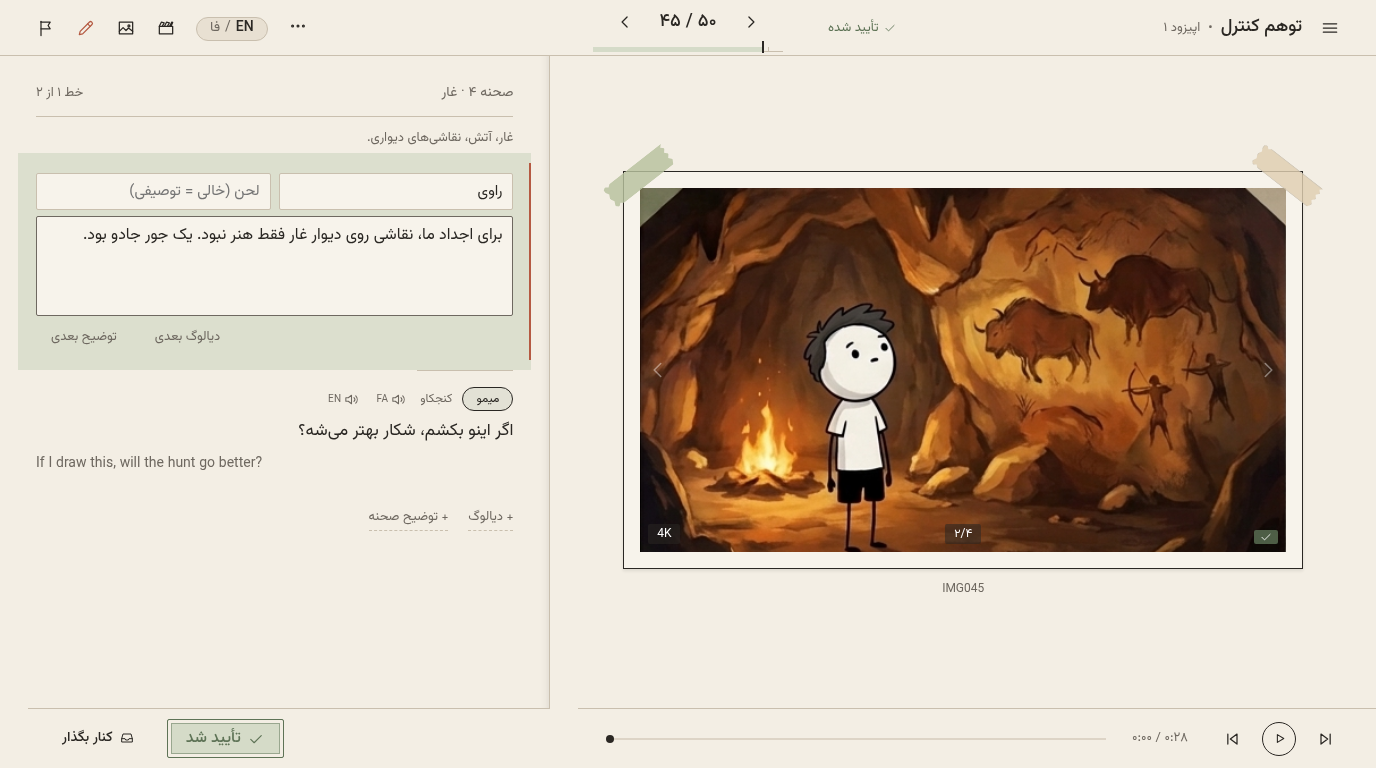
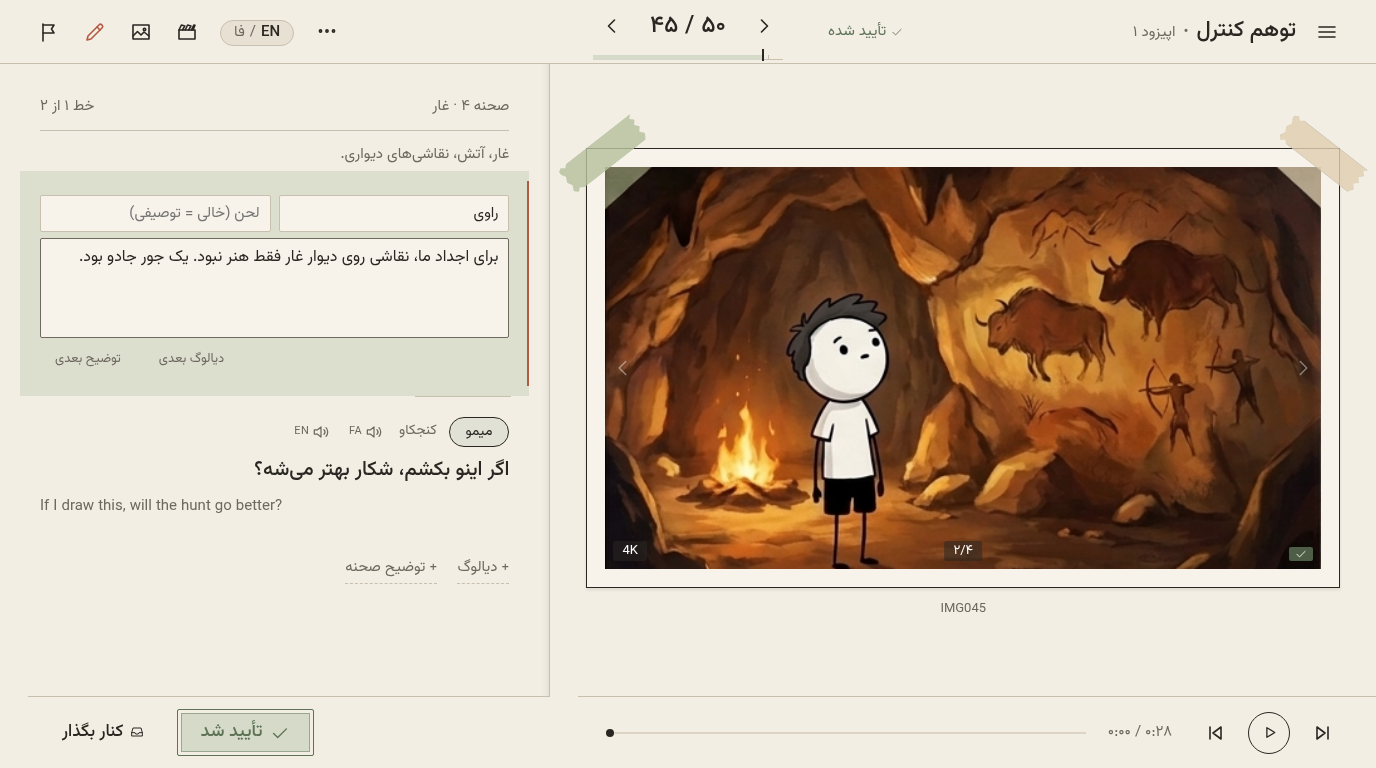
نسخهٔ ۲٫۰ (مقیاس): بزرگکردن نوار بالا، آیکونها، متن گفتگو، چیپها، قاب تصویر (حدود ۹۰٪ صفحه) و دکمههای پایین؛ فونت و وزن یکدست در پنجرهی پرامپت؛ اسکرینشاتها و COMPARE.md بهروز

diff --git a/tools/ui/css/spread.css b/tools/ui/css/spread.css
@@ -661,3 +661,120 @@ figure.shot.off .frame img {
   direction:ltr;
   font-size:13px;
 }
+
+/* scale round (v2.0.1) */
+.imgs {
+  padding:22px 36px 14px;
+}
+
+figure.shot {
+  width:min(100%,calc((100vh - 250px) * 16 / 9 + 34px));
+}
+
+.mount {
+  padding:18px;
+}
+
+.tape {
+  width:92px;
+  height:30px;
+}
+
+.tape.a {
+  left:-30px;
+  top:-10px;
+}
+
+.tape.b {
+  right:-30px;
+  top:-10px;
+}
+
+.txt {
+  padding:0 40px 28px;
+}
+
+.pghead {
+  padding-top:30px;
+  font-size:15px;
+}
+
+.slabel,
+.cnt {
+  font-size:15px;
+}
+
+.env {
+  font-size:15px;
+}
+
+.it {
+  padding:20px 20px 18px;
+  margin:0 -20px;
+}
+
+.who {
+  font-size:14px;
+  min-height:32px;
+  gap:4px 12px;
+}
+
+.who .nm {
+  font-size:14px;
+  line-height:28px;
+  padding:0 16px;
+}
+
+.who .tn {
+  font-size:14px;
+}
+
+.ab .ic {
+  width:20px;
+  height:20px;
+}
+
+.ab small {
+  font-size:11px;
+}
+
+.fa {
+  font-size:20px;
+  font-weight:500;
+  line-height:1.8;
+}
+
+.en {
+  font-size:15px;
+  line-height:1.6;
+}
+
+.act {
+  font-size:17px;
+}
+
+.lt-b {
+  width:30px;
+  height:30px;
+}
+
+.lt-b .ic {
+  width:17px;
+  height:17px;
+}
+
+.addbar button {
+  font-size:15px;
+}
+
+.idrow {
+  font-size:13px;
+}
+
+.vmeta > span {
+  font-size:13px;
+}
+
+.nbox textarea {
+  font-size:15px;
+}

diff --git a/tools/ui/css/shell.css b/tools/ui/css/shell.css
@@ -557,3 +557,93 @@
   font-size:13px;
   line-height:1.9;
 }
+
+/* scale round (v2.0.1): everything about 1.3x of the first pass, like the mock-up */
+:root {
+  --bar-h:64px;
+}
+
+.ib {
+  width:42px;
+  height:42px;
+}
+
+.ib .ic {
+  width:24px;
+  height:24px;
+  stroke-width:1.6;
+}
+
+#title {
+  font-size:22px;
+  font-weight:500;
+}
+
+#ep {
+  font-size:15px;
+}
+
+#nav {
+  margin-top:8px;
+  height:36px;
+}
+
+#nav .ib {
+  width:36px;
+  height:36px;
+}
+
+#pos {
+  font-size:24px;
+  min-width:104px;
+}
+
+#apr {
+  font-size:15px;
+}
+
+.pill {
+  font-size:15px;
+  line-height:30px;
+}
+
+#foot {
+  height:72px;
+}
+
+#ttime {
+  font-size:15px;
+}
+
+.playb {
+  width:42px;
+  height:42px;
+}
+
+.playb .ic {
+  width:21px;
+  height:21px;
+}
+
+.stamp {
+  font-size:18px;
+  padding:7px 22px;
+}
+
+.stamp .ic {
+  width:22px;
+  height:22px;
+}
+
+#aside {
+  font-size:17px;
+}
+
+.drow {
+  font-size:17px;
+  height:52px;
+}
+
+#dtitle {
+  font-size:20px;
+}

diff --git a/tools/ui/css/modal.css b/tools/ui/css/modal.css
@@ -262,3 +262,22 @@ dialog.dlg .okm {
   display:inline;
   color:var(--approve);
 }
+
+/* scale round (v2.0.1): one consistent weight in the prompt box (the Latin words fell back to another face) */
+.ptxt {
+  font:400 15px/1.75 system-ui,'Segoe UI',Roboto,'Helvetica Neue',Arial,sans-serif;
+  font-synthesis:none;
+}
+
+.pmc h3 {
+  font-size:24px;
+}
+
+.pmc .sub {
+  font-size:15px;
+}
+
+.pmeta,
+.prefs {
+  font-size:14px;
+}

diff --git a/docs/redesign/screens/COMPARE.md b/docs/redesign/screens/COMPARE.md
@@ -25,6 +25,8 @@
 - ترتیب آیکونهای بالا چپ برعکس ماکاپ بود. ماکاپ از چپ: پرچم، قلم، تصویر، کلپر، `فا / EN`، `⋯`. همین شد (و منوی `⋯` زیر دکمهی خودش باز میشه).
 - پنجرهی ویرایش صحنه و پنجرهی صدا هنوز کنترلهای آبی پیشفرض مرورگر داشتن. رنگ تأیید (زیتونی) گرفتن، و ترتیب دکمهها مثل پنجرهی پرامپت شد.
 
+**دور ۴ (مقیاس، بعد از نظر مدیر پروژه):** همهچیز حدود ۱٫۳ برابر شد: آیکونهای نوار ۲۴ پیکسل با قلم ۱٫۶، تیتر ۲۲، ارقام ناوبر ۲۴، متن فارسی ۲۰ پیکسل با وزن ۵۰۰، انگلیسی ۱۵، چیپ و لحن ۱۴، تیتر صحنه و شمارنده ۱۵، قاب تصویر حدود ۹۰٪ عرض صفحهی راست با نوار چسبهای بزرگتر روی گوشهها، مُهر و پخش بزرگتر. توی `textarea` پنجرهی پرامپت حروف لاتین بهخاطر فونت جایگزین وزنهای قاطی داشتن؛ حالا یک فونت سیستمی با وزن ثابت ۴۰۰. صفحه پرتر شد؛ هنوز زیر متن چپ وقتی دو خط بیشتر نیست جای خالی هست (متن کم است، نه چیدمان).
+
 ## چیزهایی که جوره
 
 - **رنگ و کاغذ:** `#F3EEE4` برای صفحه، خطهای نازک `#C9BFAE`، جوهر `#2A2723`، شست و شوی زیتونی برای خط فعال و نوار پیشرفت، سبز مهر برای «تأیید». بدون کارت، گرادیان و سایهی سنگین.
@@ -38,8 +40,7 @@
 
 ## چیزهایی که فرق دارن (صادقانه)
 
-- **اندازهی نوشتهی بالا:** اسم پروژه توی ماکاپ حدود ۲۸ پیکسل و نوار بالا بلندتره؛ طبق `spec.md` من ۱۸ پیکسل و ۵۶ پیکسل گذاشتم. نوار من ظریفتره.
-- **قلم متن:** ماکاپ متن فارسی رو درشتتر و تاحدی ضخیم نشون میده؛ من ۱۷ پیکسل معمولی (حد بالای `spec.md`).
+- **اندازهی نوشتهی بالا و متن:** بعد از دور ۴ نزدیک ماکاپن (تیتر ۲۲، متن ۲۰ نیمهضخیم، نوار ۶۴)، ولی هنوز کمی کوچکتر از ماکاپ (تیتر ۲۸).
 - **برچسبهای زیرخطدار** (`غار`، `نقاشی`، `جادو`) نیستن: چنین دادهای توی `story.txt` وجود نداره و جعلش نکردم.
 - **تیتر صفحهی متن:** ماکاپ «متن صحنه» داره؛ من طبق خواستهی علی «صحنه ۴ · غار» (با کلیک ویرایش میشه) گذاشتم.
 - **شست و شوی خط فعال:** ماکاپ لبهی لکهای (آبرنگ) داره؛ من مستطیل صاف.
